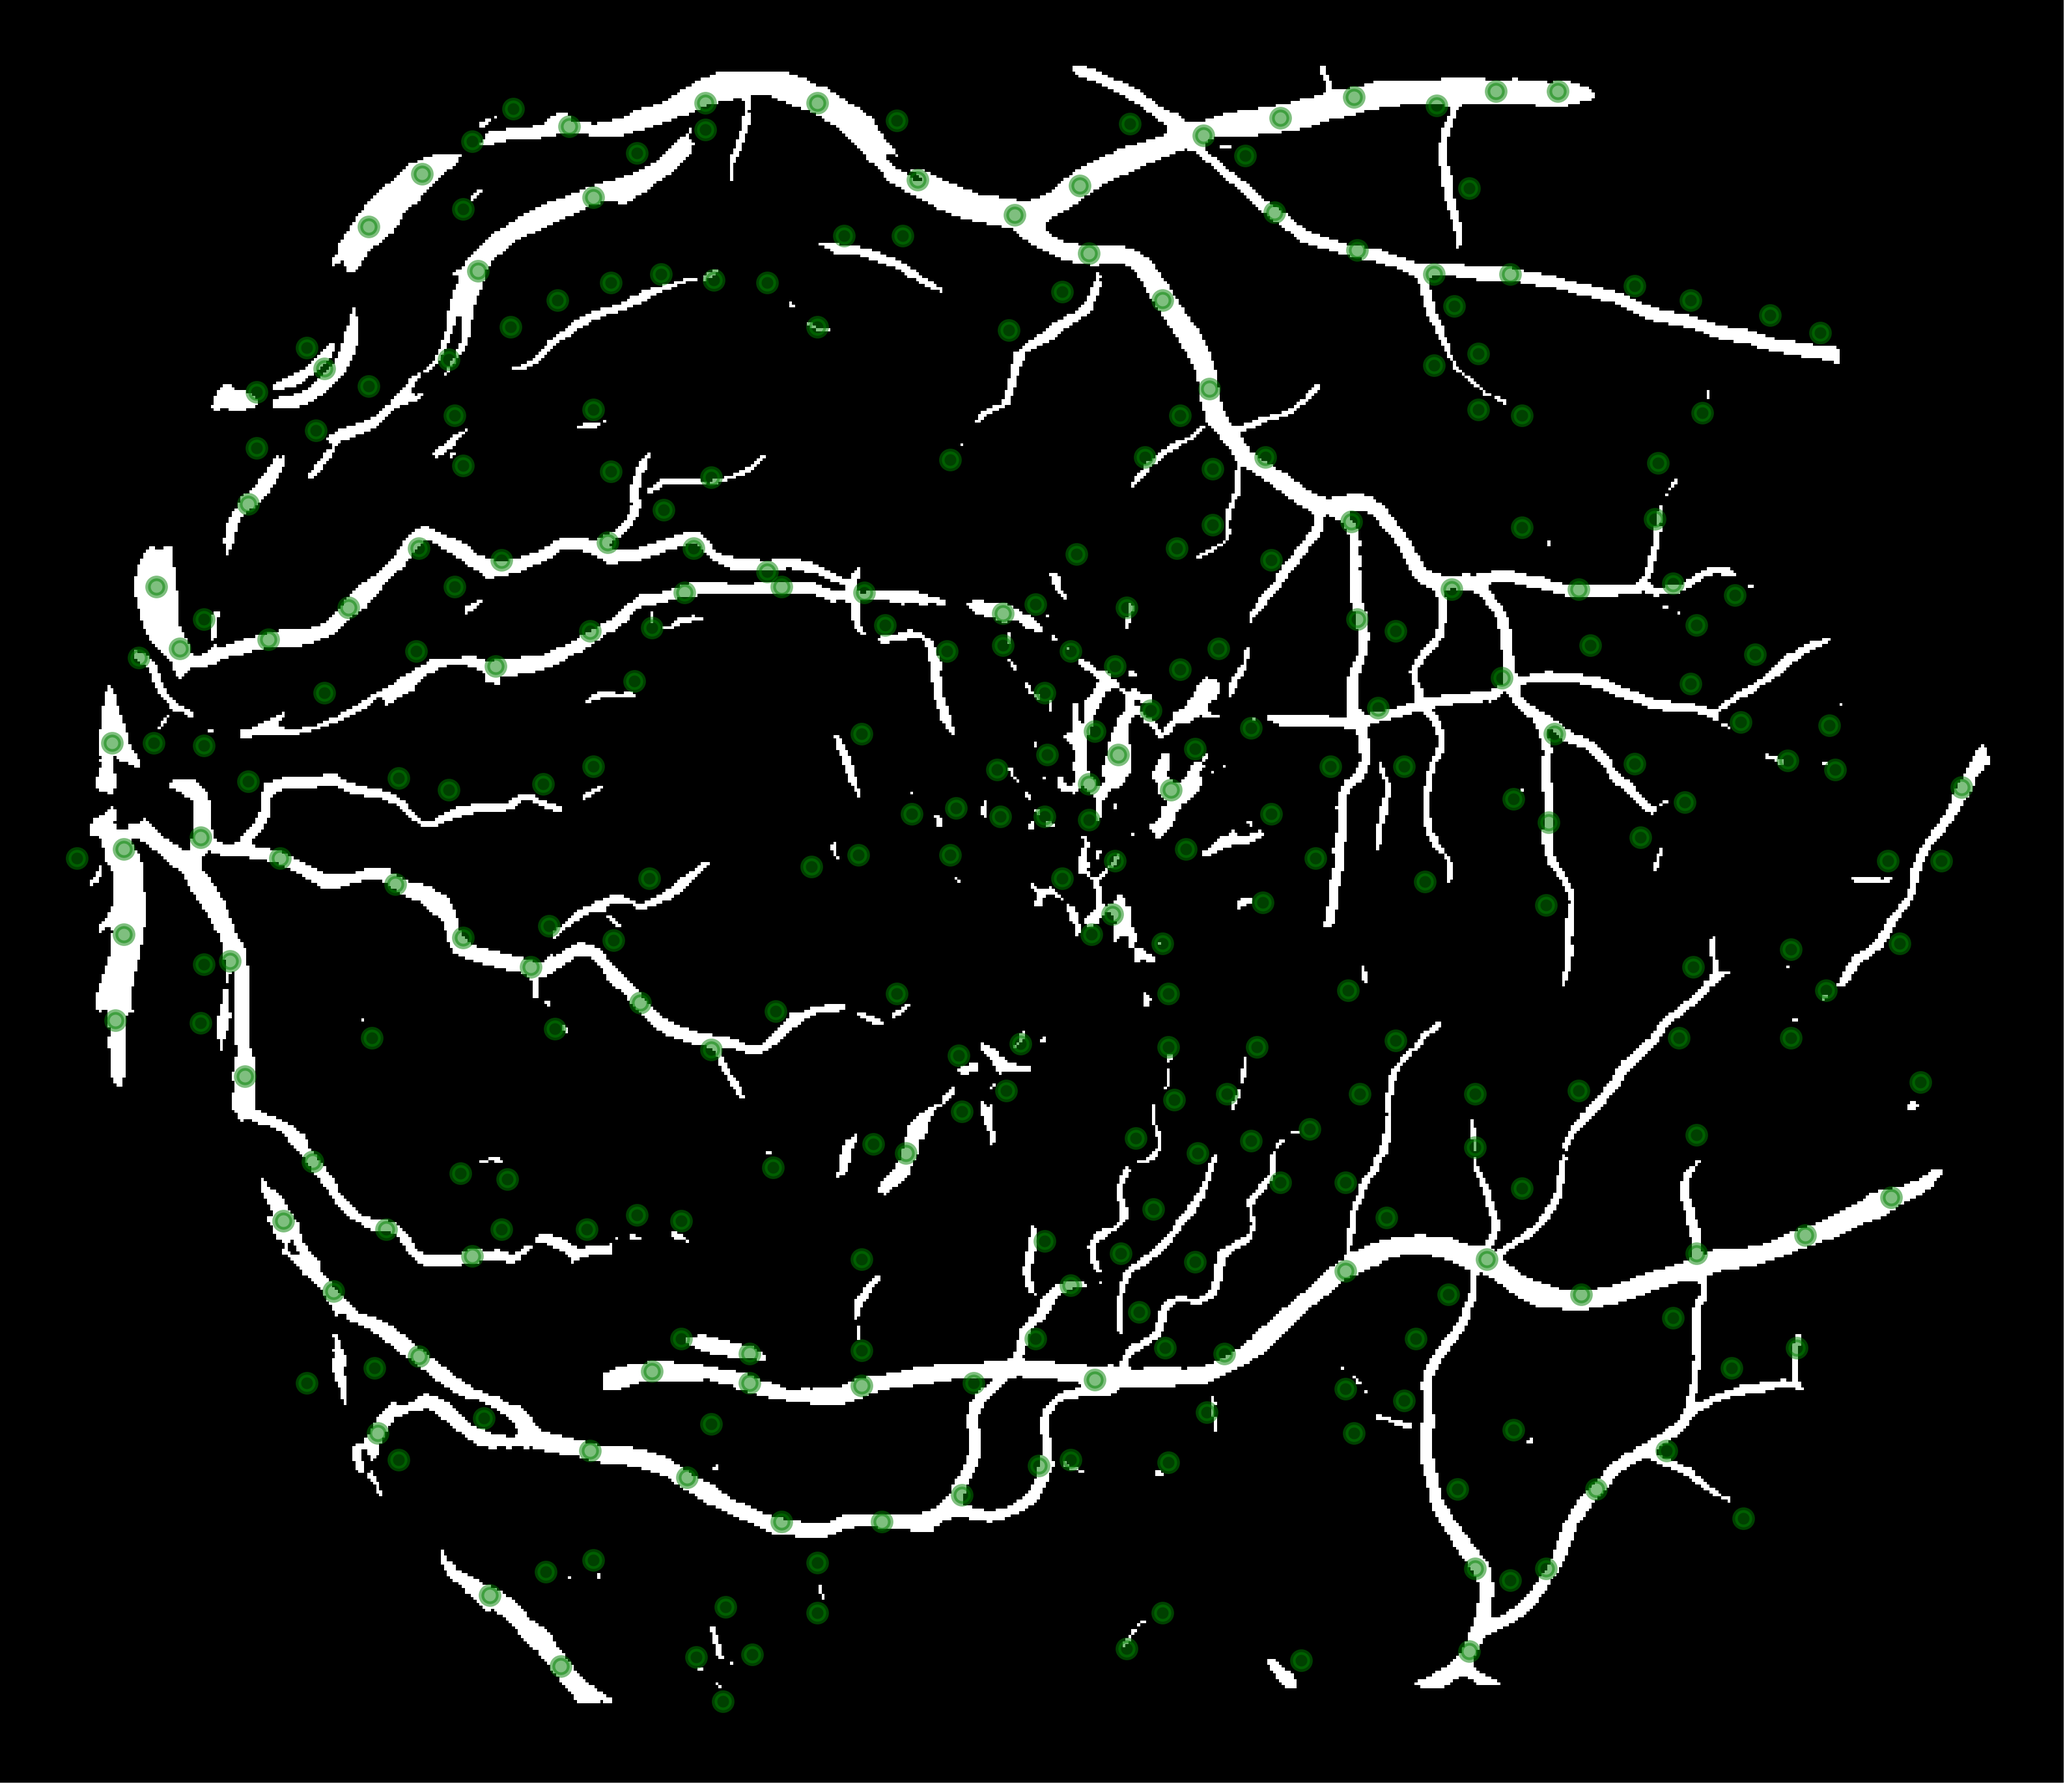
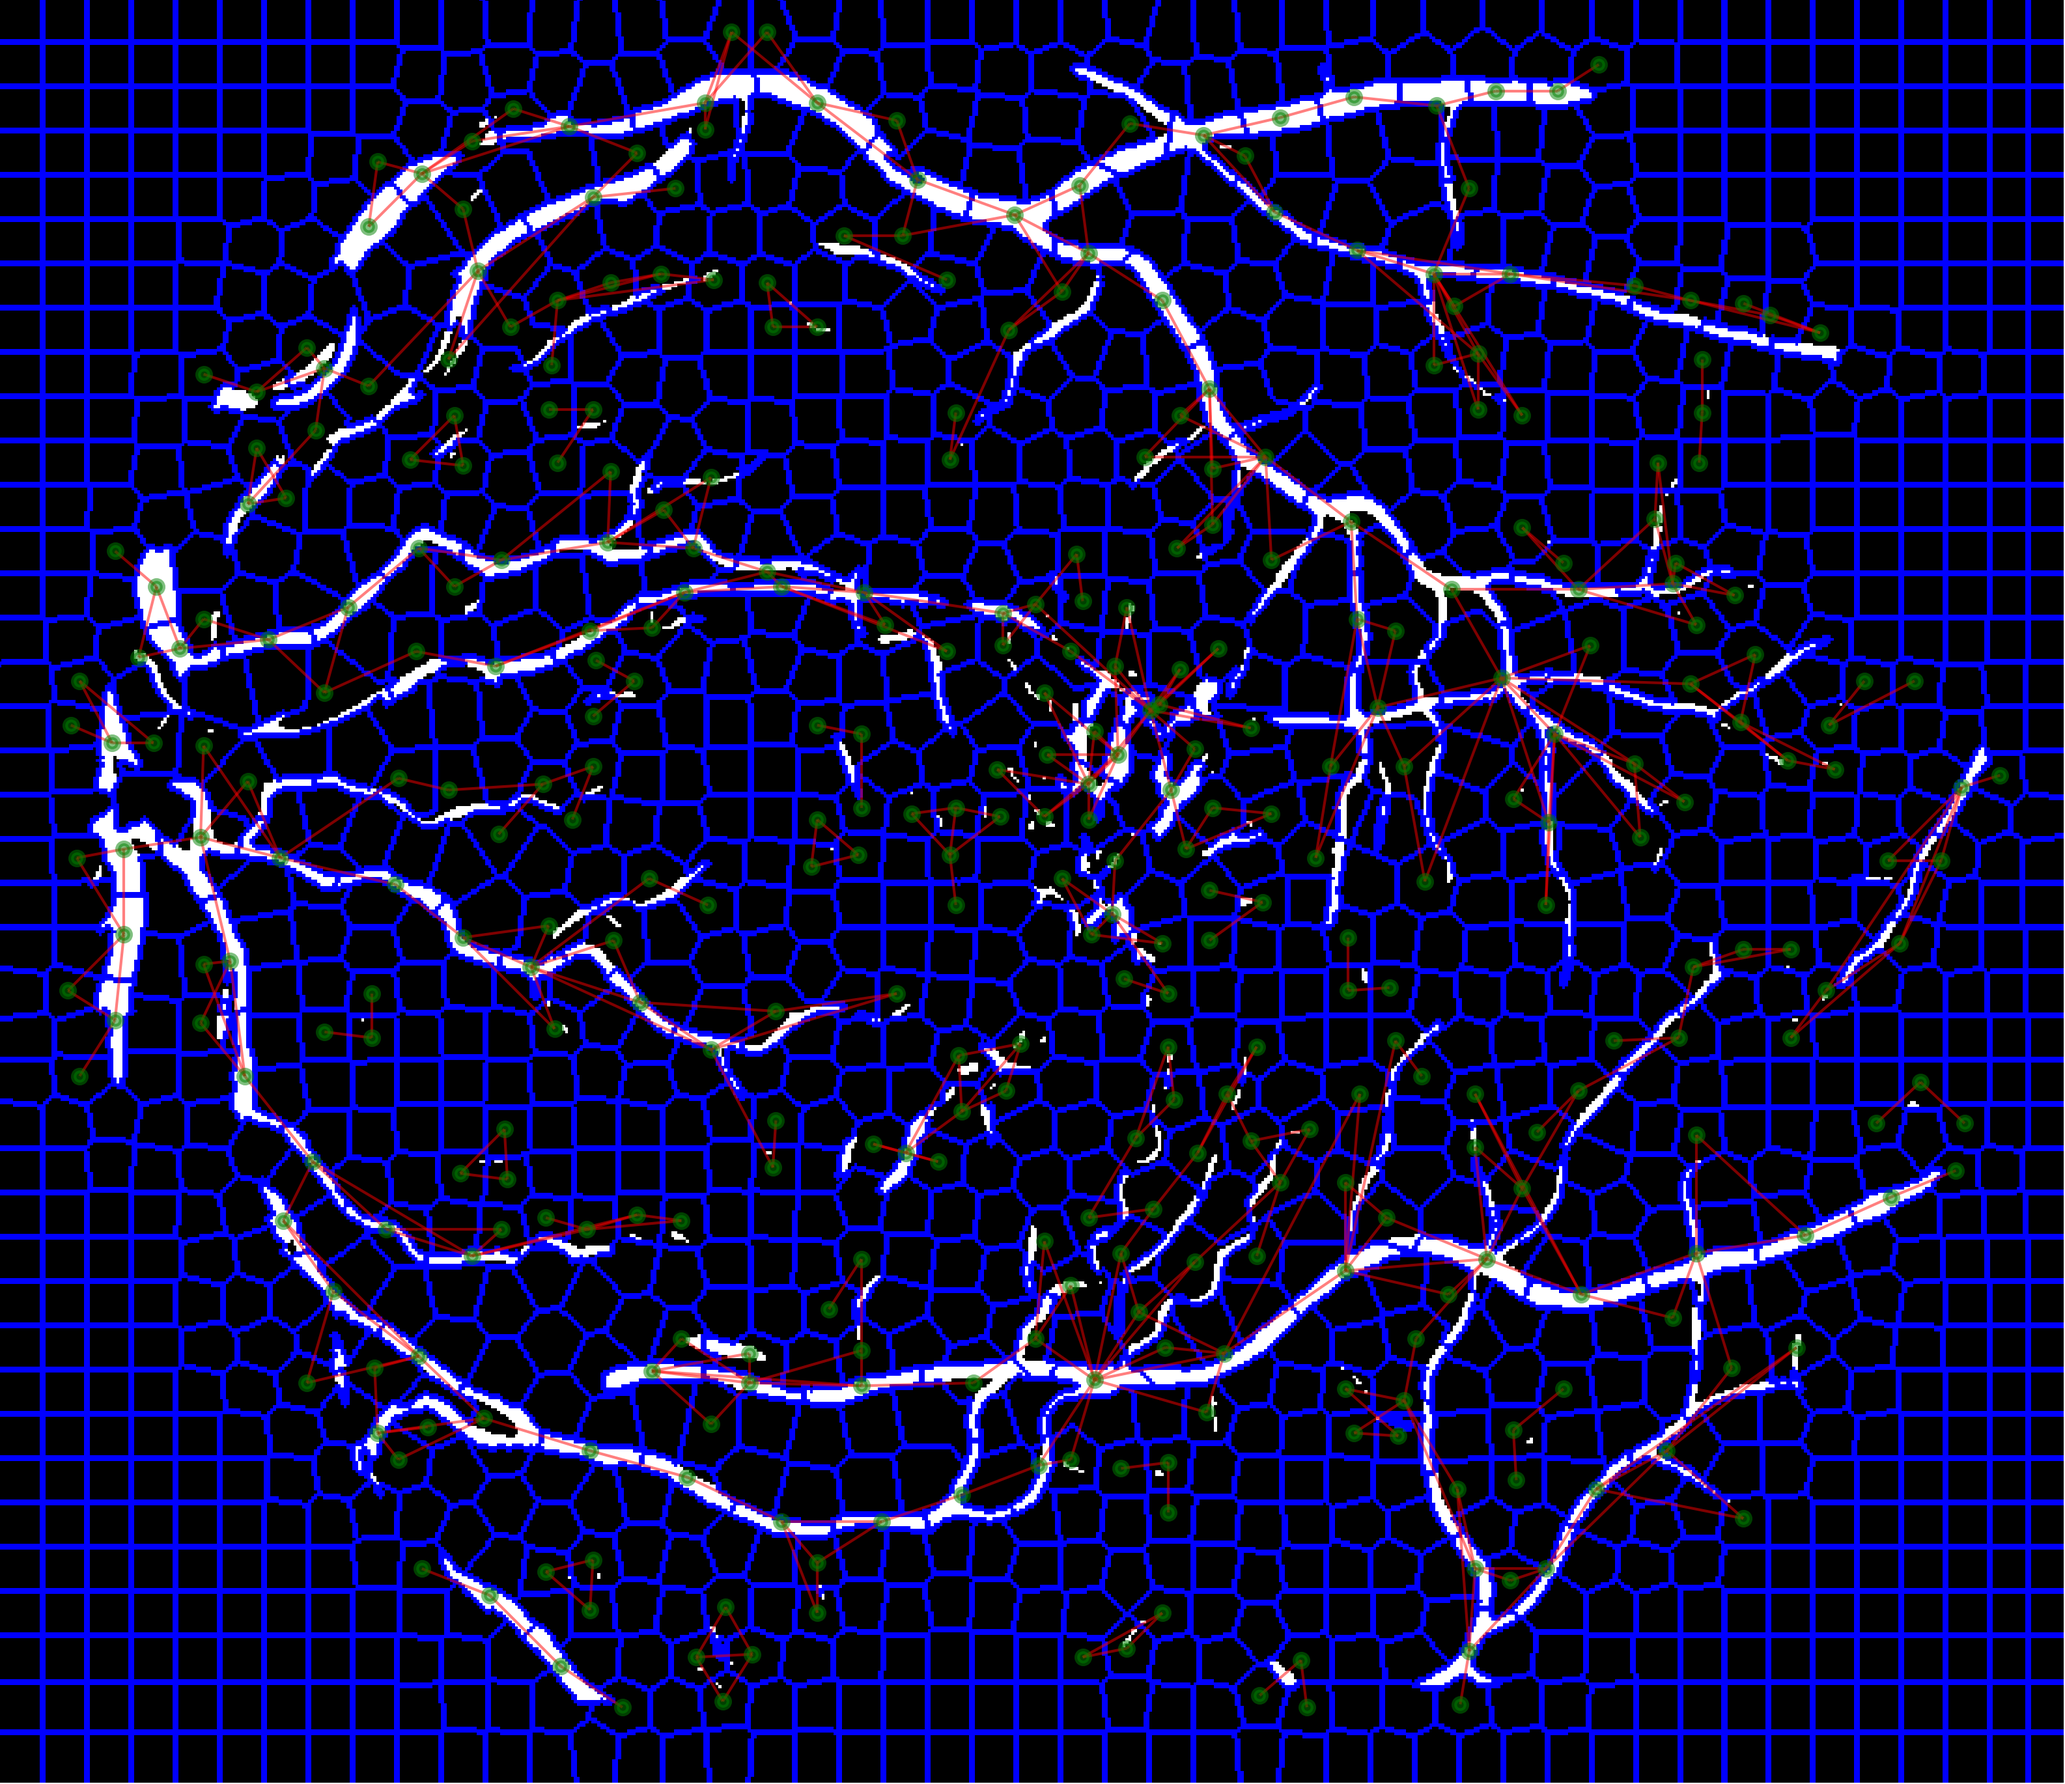
add edge function completed

Changed region(s): [[0.0, 0.0, 0.9991, 1.0]]

diff --git a/code/utils.py b/code/utils.py
@@ -5,6 +5,7 @@ Created on Sat Nov 26 11:54:38 2022
 
 @author: jiu7
 """
+import os, sys
 from skimage.segmentation import slic
 from skimage.segmentation import mark_boundaries
 from skimage.measure import regionprops, find_contours
@@ -26,7 +27,7 @@ class GraphedImage():
         self.graph = nx.Graph()
         self.N_pieces = None
         self.piece_list = self.kind0_list = self.kind1_list = self.kind2_list = []
-        self.node_list = [] # CAUTION : node labels start from 1
+        self.node_list = [] # CAUTION : node labels start from 1 while piece_list's index starts from 0
         # FUNCTIONS
         self.binarize = binarize
         self.get_slic = get_slic
@@ -36,22 +37,26 @@ class GraphedImage():
         self.add_edges = add_edges
         self.visualize_graph = visualize_graph
         self.draw_some_nodes = draw_some_nodes
-        self.get_neighbors = _get_neighbors
+        self.get_neighbors = get_neighbors
+        self.get_dist = get_dist
+        self.get_dist_shortest = get_dist_shortest
         # PIPELINE
         self.certain_pred, self.uncertain_pred = \
             self.binarize(self, method = 'otsu', hard_threshold = 0.5, save = True)         
         self.slic_label, self.boundaries = \
             self.get_slic(self, N_pieces = 2000 ,save = True)
-        self.piece_list = self.register_pieces(self, cut_value = 1e-2, debug = True)
+        self.piece_list = self.register_pieces(self, cut_value = 0.1, debug = True)
         self.N_pieces = len(self.piece_list)
         
         self.kind0_list, self.kind1_list, self.kind2_list = self.sort_pieces(self)
-        self.node_list = self.kind2_list
+        self.kind_all_list = self.kind0_list + self.kind1_list + self.kind2_list
+        self.node_list = self.kind1_list + self.kind2_list
         self.add_nodes(self)
-        neighbors = self.get_neighbors(self, node = 88, narrow = 50)
-        self.mark_some_nodes(to_draw_list = 88, color = 'yellow')
-        self.mark_some_nodes(neighbors, color = 'red')
-            
+        self.add_edges(self, narrow = 200, method = 'shortest', \
+                       threshold = 200, N_link = 2) 
+        iso_nodes = nx.isolates(self.graph)
+        self.graph.remove_nodes_from(list(iso_nodes)) 
+        
     def draw_graph(self):
         self.visualize_graph(self)
     def mark_some_nodes(self, to_draw_list, color = 'red'):
@@ -91,35 +96,26 @@ class Piece():
 def register_pieces(self, cut_value : float, debug : bool) -> list:
     piece_list = []
     slic_props = regionprops(self.slic_label, self.certain_pred)
-    uncertain_props = regionprops(self.slic_label, self.uncertain_pred)
     
-    for piece_id, piece in enumerate(slic_props):
+    for piece in slic_props:
         # centers
         y, x = piece.centroid
-        # coords and core of kind 2 piece    
+        # coords and core   
         core_pixels = []
         for coord in piece.coords:
-            if self.certain_pred[coord[0], coord[1]] == 0:
-                continue
+            if self.pred[coord[0], coord[1]] >= cut_value:
+                core_pixels.append(list(coord))   
             else:
-                core_pixels.append(list(coord))        
+                continue     
         # kind           
-        if len(core_pixels) > 0:
-            kind = 2
+        if len(core_pixels) == 0:
+            kind = 0
             
-        elif len(core_pixels) == 0:
-            cur_intensity_max = uncertain_props[piece_id].intensity_max
-            if cur_intensity_max > cut_value:
-                kind = 1
-            else : kind = 0
-        # core of kind 1 piece
-        if kind == 1:
-            core_pixels = []
-            for coord in piece.coords:
-                if self.certain_pred[coord[0], coord[1]] < cut_value:
-                    continue
-                else:
-                    core_pixels.append(list(coord))
+        elif len(core_pixels) > 0:
+            
+            if piece.intensity_max == 1:
+                kind = 2
+            else : kind = 1
         
         tmp = Piece(label = piece.label, kind = kind, center = [int(y), int(x)], slices = piece.slice, coords = list(piece.coords), core = core_pixels)        
         piece_list.append(tmp)
@@ -153,28 +149,109 @@ def add_nodes(self) -> None:
         center_y, center_x = self.piece_list[label - 1].center
         self.graph.add_node(label, y = center_y, x = center_x)
 
-def _get_neighbors(self, node, narrow) -> list:
+def get_neighbors(self, node, narrow) -> list:
+    '''
+    get possible linking nodes (neighbors) for a specific node
+    child function for self.add_edges
+    '''
     i = node - 1 # trans from node label to according self.piece_list index
     cur_slice = self.piece_list[i].slices
     phi = np.ones_like(self.certain_pred)
     phi[cur_slice] -= 2 * self.certain_pred[cur_slice]
 
-    tt = skfmm.travel_time(phi, speed = self.certain_pred, narrow = narrow).astype(np.float32)    
+    mask = np.zeros_like(self.pred)
+    [rr, cc] = draw.disk(center = self.piece_list[i].center, radius = 50, shape = self.pred.shape) 
+    mask[rr, cc] = 1
+    speed = self.certain_pred + self.uncertain_pred * mask
+
+    tt = skfmm.travel_time(phi, speed = speed, narrow = narrow).astype(np.float32)    
+    #io.imsave('tt.png', tt)
     neighbor_mask = np.where(tt.filled(fill_value=0) > 0, 1, 0) 
-    io.imsave('neighbor_mask.png', neighbor_mask)
+    #io.imsave('neighbor_mask.png', neighbor_mask)
     neighbors = list(np.unique(neighbor_mask * self.slic_label))
-    print(neighbors)
-    neighbors.remove(node)
     neighbors.remove(0)
-    
+    neighbors = list(set(neighbors) - set(self.kind0_list + [node]))
     assert len(neighbors) > 0, f'no neighboor were found for node {node}'
-    print(f'{len(neighbors)} neighboors are selected for node {node}')
-    print(sorted(neighbors))
-    return neighbors
+    assert node not in neighbors
+    #print(f'{len(neighbors)} neighboors are selected for node {node}')
+    #print(sorted(neighbors))
+    return tt, neighbors
 
-def add_edges(self) -> None:
-    pass
+def get_dist(self, node : int, tt : np.array) -> float:
+    '''
+    get mean_geo_dist for a specific slic piece in a specific tt map
+    child function for self.add_egdes
+    '''
+    index = node - 1
+    sum_dist = sum_intensity = 0
+    coords = self.piece_list[index].core
+    for coord in coords:
+        sum_dist += tt[coord[0], coord[1]]
+    return (sum_dist / len(coords)).astype(np.float32)
 
+def get_dist_shortest(self, node : int, tt : np.array) -> float:
+    '''
+    get the shortest geo-dist for a specific slic piece in a specific tt map
+    child function for self.add_egdes
+    '''
+    index = node - 1
+    coords = self.piece_list[index].core
+    assert len(coords) > 0, f'node {node} has empty core'
+    dists = []
+    for coord in coords:
+        dists.append(tt[coord[0], coord[1]])
+    min_dist = min(dists)    
+    return min_dist.astype(np.float32)
+
+def add_edges(self, narrow : int, method : str, threshold : float, N_link : int) -> None:
+    '''
+    decide which node(s) in neighbors are to be connected 
+    and map that opretion to all kind2 nodes
+    '''
+    assert method in ['shortest', 'threshold']
+    
+    if method == 'shortest':
+
+        for label in self.kind2_list:
+            tt, neighbors = self.get_neighbors(self, label, narrow)
+            
+            tt = (tt - tt.min()) / (tt.max() - tt.min()) # normalization btw 0,1
+            tt_filled = tt.filled(fill_value = 1).astype(np.float32)
+            
+            n_link = min(len(neighbors), N_link)
+            mean_geo_dists = []
+            
+            for neighboor in neighbors:
+                dist = self.get_dist(self, neighboor, tt_filled)
+                mean_geo_dists.append((neighboor, dist)) 
+                
+            mean_geo_dists = sorted(mean_geo_dists, key = lambda x : x[-1])    
+            targets = mean_geo_dists[:n_link]
+            edges = [(label, target[0]) for target in targets]
+            self.graph.add_edges_from(edges)
+            print(f'{len(edges)} are added for node {label}')
+            #print(f'edge btw {label} and {target} by {target_dist : .3e} {max_dist:.3e}' )
+            
+    elif method == 'threshold':
+        
+         for label in self.kind2_list:
+             tt, neighbors = self.get_neighbors(self, label, narrow)
+             
+             tt = (tt - tt.min()) / (tt.max() - tt.min()) # normalization btw 0,1
+             tt_filled = tt.filled(fill_value = 1).astype(np.float32)
+             
+             mean_geo_dists = []
+             for neighboor in neighbors:
+                 dist = self.get_dist(self, neighboor, tt_filled)
+                 mean_geo_dists.append((neighboor , dist)) 
+                 
+             targets = [mean_geo_dist[0] for mean_geo_dist in mean_geo_dists if mean_geo_dist[-1] < threshold]
+             if len(targets) == 0:
+                 continue
+             else:
+                 _ = [self.graph.add_edge(label, target) for target in targets]
+                 #print(f'edge btw {label} and {target} by {target_dist : .3e}' )
+        
 def draw_nodes(image : np.array, coords : list, color : str) -> np.array: # image is float btw 0,1
     if color == 'red' : cur_color = (1,0,0)
     elif color == 'blue' : cur_color = (0,0,1) 
@@ -199,8 +276,8 @@ def draw_some_nodes(self, to_draw_list : list, color, save = True):
 def visualize_graph(self, show_graph=True, save_graph=True, \
                     num_nodes_each_type=None, custom_node_color=None, \
                     tp_edges=None, fn_edges=None, fp_edges=None, \
-                    save_path='graph.png'):
-    im = self.certain_pred
+                    save_path='graph.png') -> None:
+    im = self.boundaries
     graph = self.graph
     plt.figure(figsize=(7, 6.05))
     
@@ -217,6 +294,7 @@ def visualize_graph(self, show_graph=True, save_graph=True, \
     plt.axis((0,700,605,0))
     pos = {}
     node_list = list(graph.nodes)
+    print(node_list)
     for i in node_list:
         pos[i] = [graph.nodes[i]['x'], graph.nodes[i]['y']]
     
@@ -230,7 +308,7 @@ def visualize_graph(self, show_graph=True, save_graph=True, \
                 raise ValueError('Wrong number of nodes')
             #node_color = [VIS_NODE_COLOR[0]]*num_nodes_each_type[0] + [VIS_NODE_COLOR[1]]*num_nodes_each_type[1] 
 
-    nx.draw(graph, pos, node_color='green', edge_color='white', width=1, node_size=10, alpha=0.5)
+    nx.draw(graph, pos, node_color='green', edge_color='red', width=0.5, node_size=5, alpha=0.5)
 
     if save_graph:
         plt.savefig(save_path, bbox_inches='tight', pad_inches=0, dpi = 600)
@@ -250,10 +328,13 @@ if __name__ == '__main__':
 
     graphedpred = GraphedImage(pred)
     piece_list = graphedpred.piece_list
+    a = graphedpred.graph
+    # print(a)
+    # print(list(a.nodes))
+    graphedpred.draw_graph()
     # to_draw_list = graphedpred.kind2_list
-    # graphedpred.mark_some_nodes(to_draw_list)
+    graphedpred.mark_some_nodes(297)
     # graphedpred.draw_graph()
-    
     
     
     

diff --git a/code/slic_demo.py b/code/slic_demo.py
@@ -29,6 +29,7 @@ del whole_img
 graphedpred = GraphedImage(pred)
 piece_list = graphedpred.piece_list
 graphedpred.mark_some_nodes(to_draw_list = [1,2,3,7])
+print(graphedpred.graph)
 # In[]
 
 threshold = threshold_otsu(pred)
